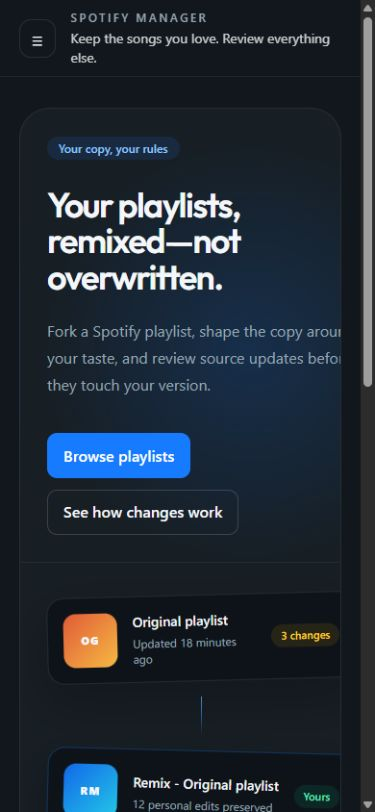
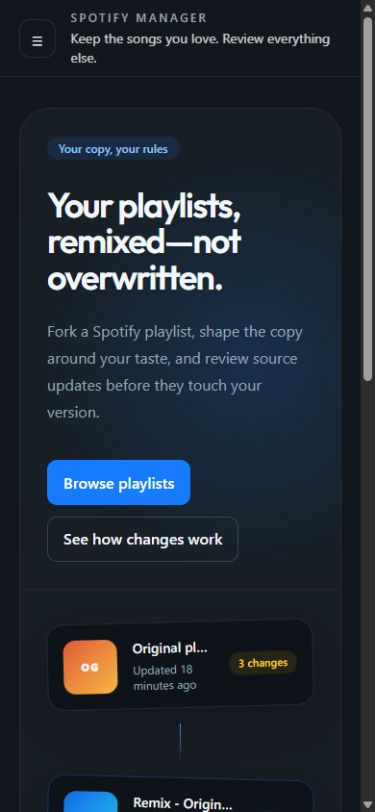
WIP: Codex continues

diff --git a/docs/implementation-preview/README.md b/docs/implementation-preview/README.md
@@ -1,0 +1,8 @@
+# Implementation preview
+
+These screenshots were captured from the Docker-packaged Angular application at `http://localhost:4900` after the API, worker, migrator, PostgreSQL, and Nginx health checks passed.
+
+- `home-desktop.png`: 1440 by 1000 desktop viewport
+- `home-mobile.png`: 390 by 844 mobile viewport
+
+The screenshots cover the unauthenticated first-slice shell. Spotify OAuth and authenticated workflow screens are not implemented yet.
